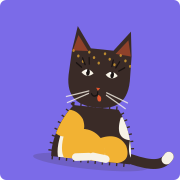
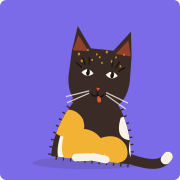
fix(seo): Redraw the brand images on the new domain
The social card prints the origin, so it still read catsvg.vercel.app. Size
the URL pill from the text rather than a fixed 500px, so it stays snug for
whatever SITE_URL says.

The favicon and touch icon are regenerated too and pick up the anatomy fixes
from 99cc38c and da178c9, which had not been baked into them yet.

Claude-Session: https://claude.ai/code/session_015GUgBshW2f95QZSUVKtmqs

diff --git a/scripts/images.ts b/scripts/images.ts
@@ -59,6 +59,13 @@ function card(x: number, y: number, size: number, seed: string, preset: string):
 const SANS = 'Bricolage Grotesque, Helvetica Neue, Helvetica, Arial, sans-serif';
 const MONO = 'IBM Plex Mono, Menlo, monospace';
 
+/**
+ * The URL pill. Monospace at 24px advances 0.6em per character, so the pill can
+ * be sized from the text and stays snug whatever the domain is called.
+ */
+const URL_TEXT = `${SITE_URL.replace('https://', '')}/cat/…`;
+const PILL_W = Math.round(URL_TEXT.length * 24 * 0.6) + 56;
+
 const og = `<svg xmlns="http://www.w3.org/2000/svg" width="${OG_W}" height="${OG_H}" viewBox="0 0 ${OG_W} ${OG_H}">
   <rect width="${OG_W}" height="${OG_H}" fill="${LILAC}"/>
   <text x="72" y="232" font-family="${SANS}" font-weight="800" font-size="104" letter-spacing="-4" fill="${INK}">${SITE_NAME}</text>
@@ -68,8 +75,8 @@ const og = `<svg xmlns="http://www.w3.org/2000/svg" width="${OG_W}" height="${OG
         `<text x="76" y="${292 + i * 40}" font-family="${SANS}" font-size="30" fill="${INK}" opacity=".72">${line}</text>`,
     )
     .join('\n  ')}
-  <rect x="72" y="392" width="500" height="66" rx="33" fill="${PAPER}" stroke="${INK}" stroke-width="4"/>
-  <text x="100" y="435" font-family="${MONO}" font-size="24" fill="${INK}">${SITE_URL.replace('https://', '')}/cat/…</text>
+  <rect x="72" y="392" width="${PILL_W}" height="66" rx="33" fill="${PAPER}" stroke="${INK}" stroke-width="4"/>
+  <text x="100" y="435" font-family="${MONO}" font-size="24" fill="${INK}">${URL_TEXT}</text>
   ${card(650, 60, 240, 'mackerel', 'anything')}
   ${card(910, 60, 240, 'clementine', 'pastel')}
   ${card(780, 330, 240, 'anchovy', 'noir')}
